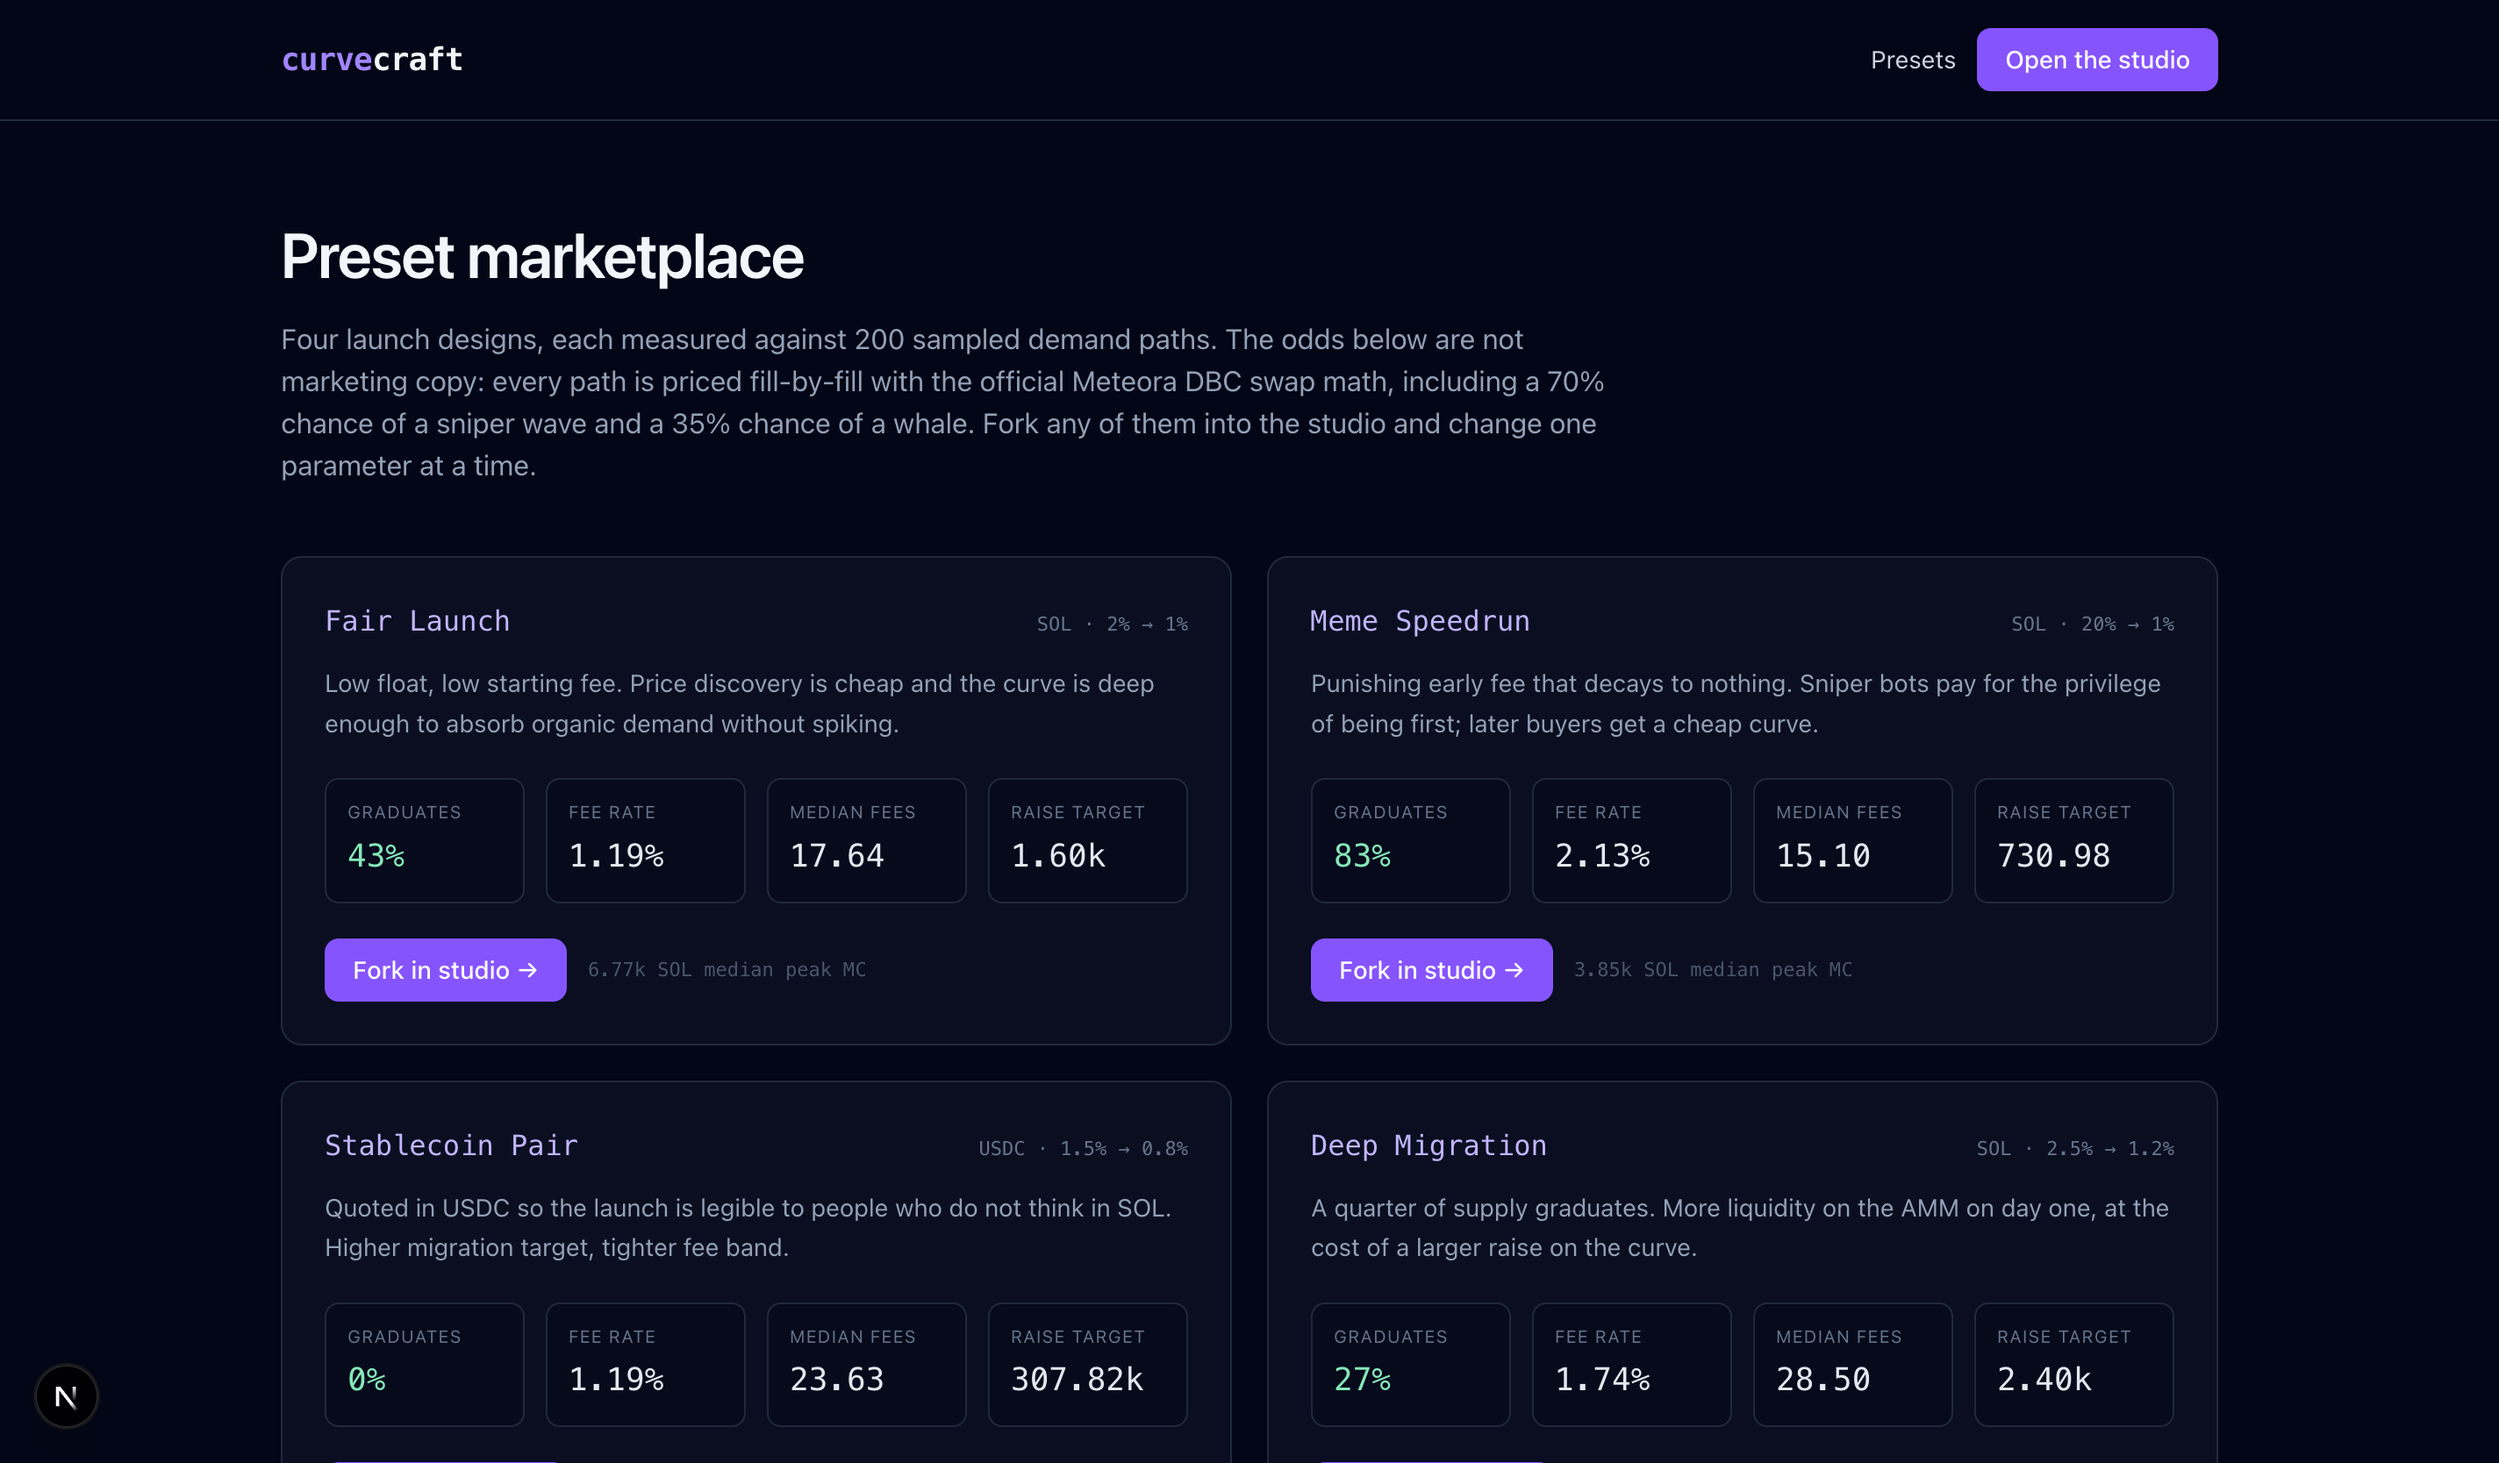
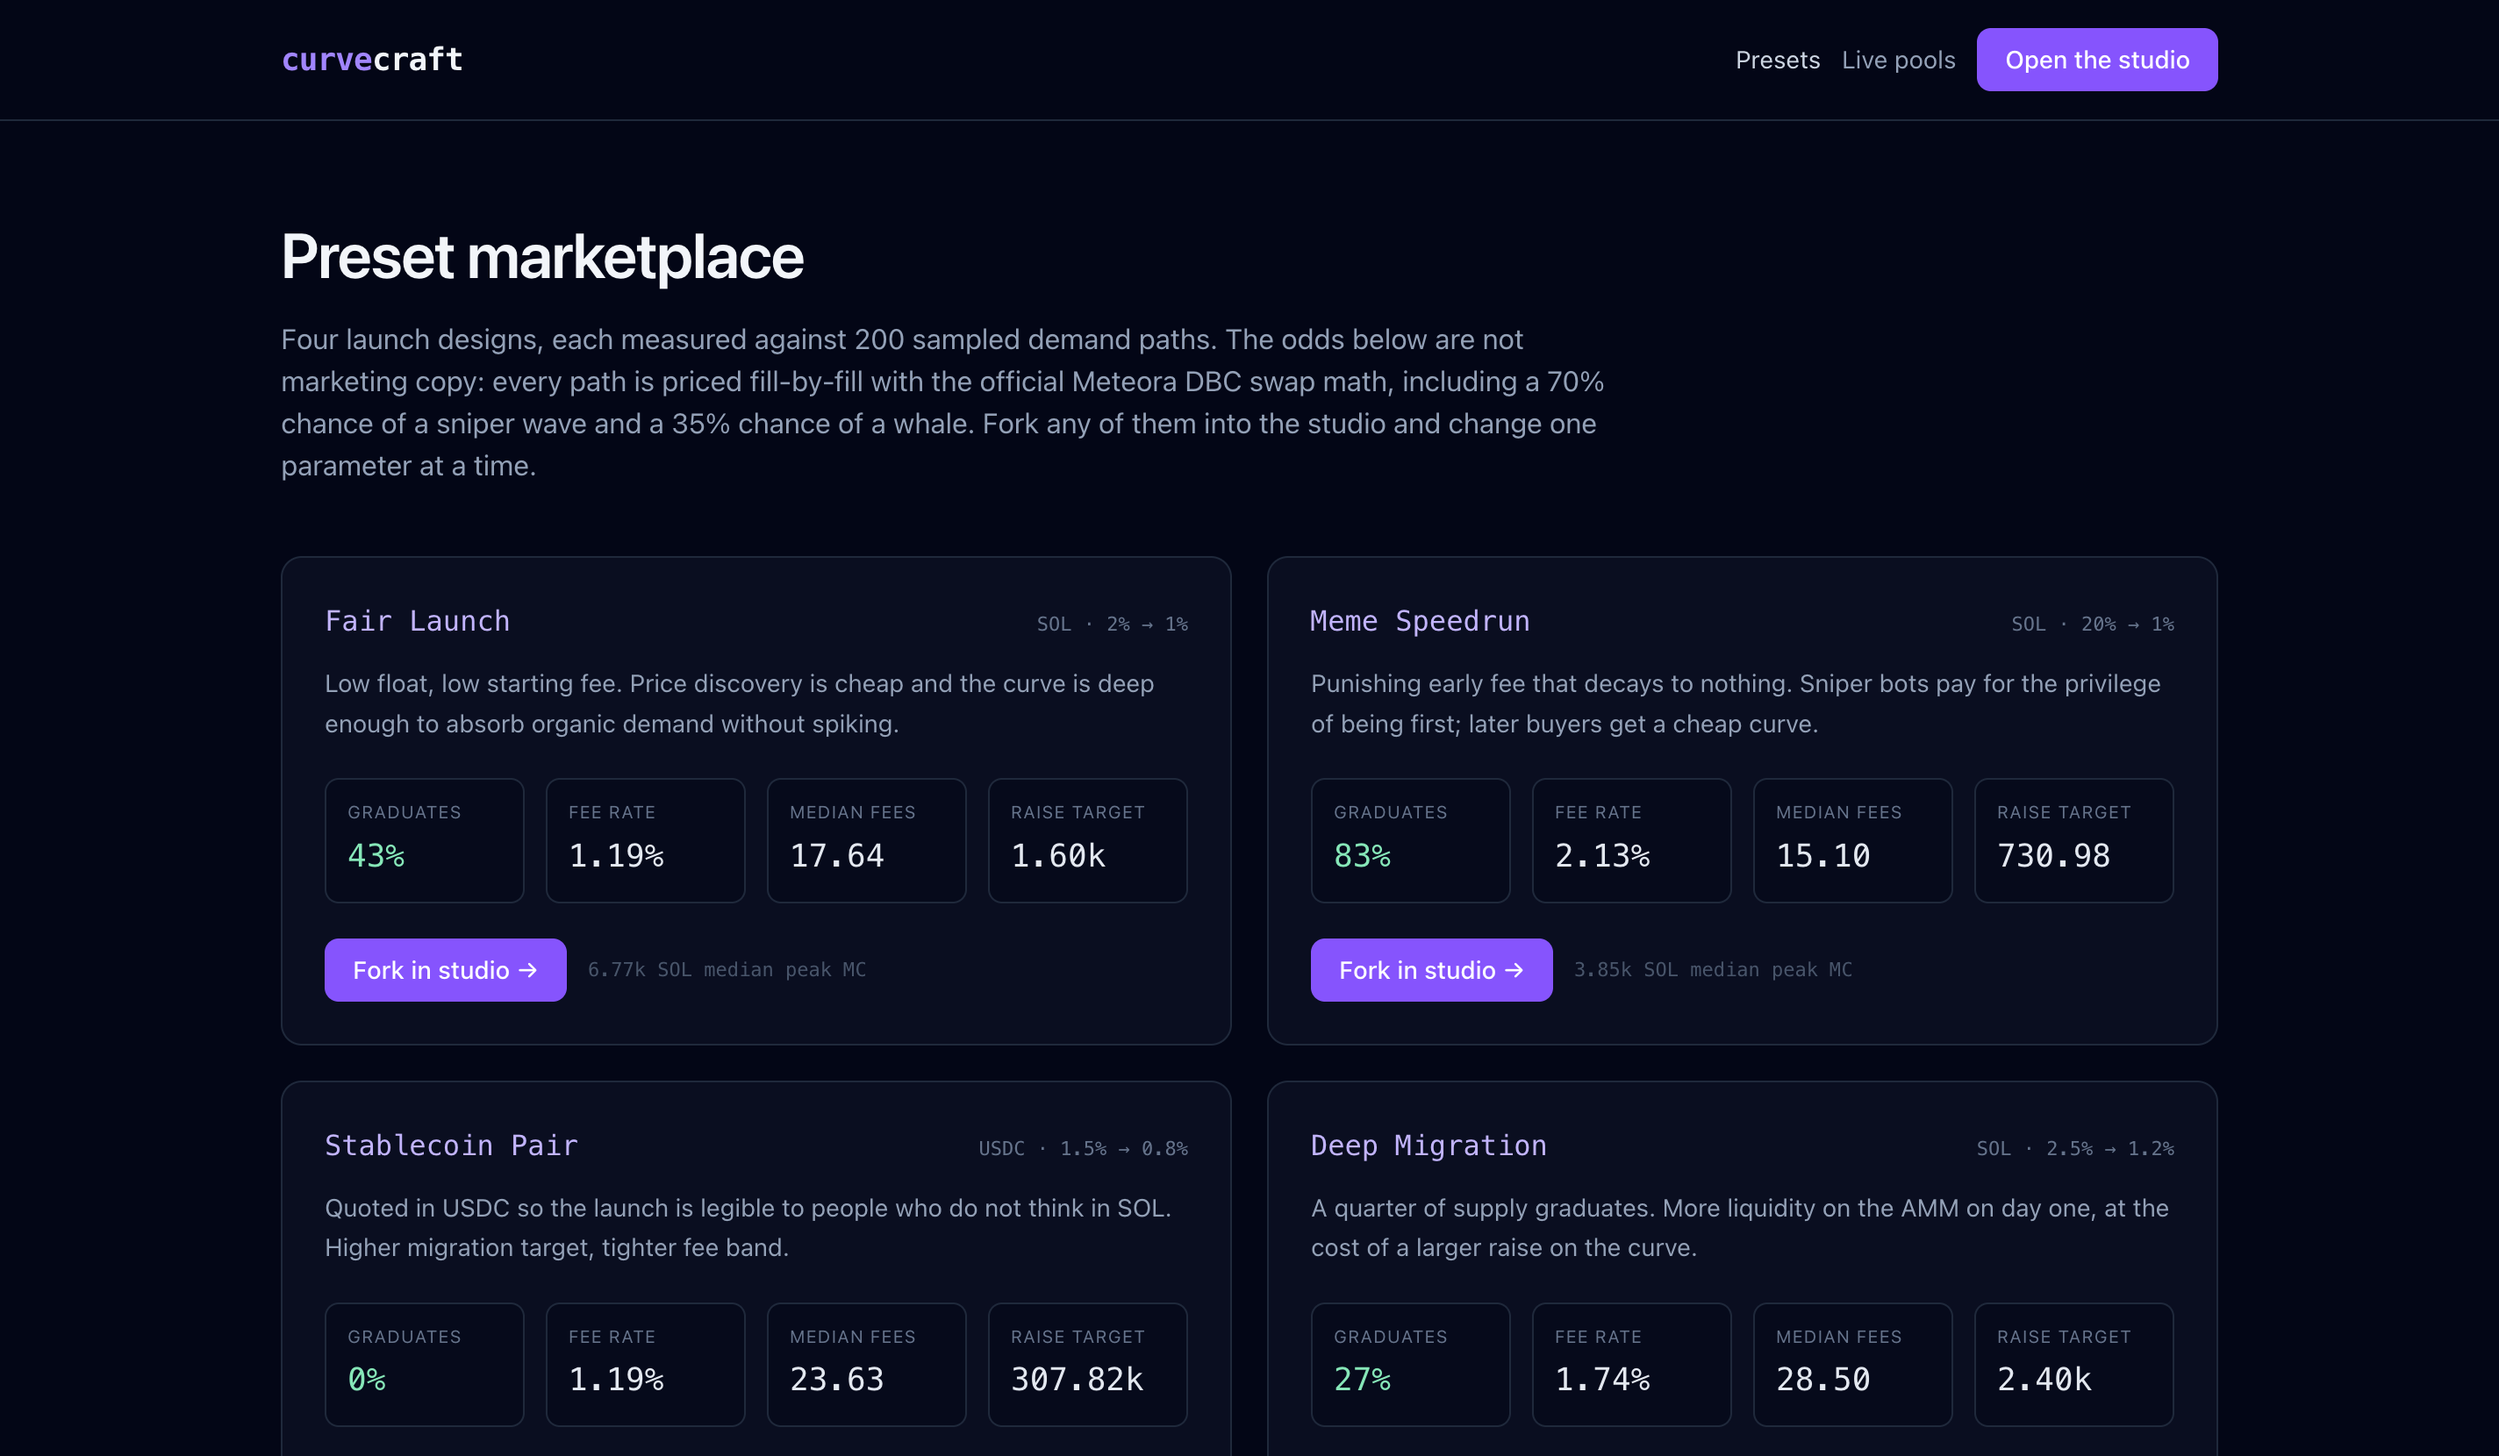
fix: exogenous demand model — graduation odds now discriminate between designs

diff --git a/src/core/montecarlo.ts b/src/core/montecarlo.ts
@@ -102,6 +102,25 @@ function percentile(sorted: number[], p: number): number {
   return sorted[index];
 }
 
+/**
+ * A demand assumption for a launch, by what it is priced in.
+ *
+ * These are starting points a founder is expected to argue with, not forecasts:
+ * a SOL-quoted community token seeing roughly 1,300 SOL of demand, a
+ * stablecoin-quoted launch seeing roughly 500k, and anything else scaled off its
+ * own raise target so the odds are at least in a sane range.
+ */
+export function demandProfileFor(quoteAsset: string, raiseTarget: number): DemandModel {
+  const base = { ...DEFAULT_DEMAND_MODEL };
+  if (quoteAsset === 'USDC') {
+    return { ...base, buyersMean: 180, buyMean: 2_800 };
+  }
+  if (quoteAsset === 'SOL') {
+    return base;
+  }
+  return { ...base, buyMean: (raiseTarget * 1.2) / Math.max(1, base.buyersMean) };
+}
+
 export const DEFAULT_DEMAND_MODEL: DemandModel = {
   buyersMean: 320,
   buyersSigma: 0.6,
@@ -184,6 +203,13 @@ export function monteCarlo(
   const runs = Math.max(1, Math.min(options.runs ?? 200, 2_000));
   const seed = options.seed ?? 42;
   const model: DemandModel = { ...DEFAULT_DEMAND_MODEL, ...options.model };
+
+  // Demand is exogenous: a launch does not attract more buyers because it set a
+  // higher target. So the *caller* supplies the demand assumption (see
+  // `demandProfileFor`), and the raise target only decides whether that demand is
+  // enough. Scaling demand to the target instead would make every design graduate
+  // with the same probability and the metric would say nothing.
+  void raiseTarget;
   const rand = mulberry32(seed);
 
   const fees: number[] = [];

diff --git a/src/app/presets/page.tsx b/src/app/presets/page.tsx
@@ -65,10 +65,12 @@ export default function PresetsPage() {
       <main className="mx-auto max-w-6xl px-6 py-14">
         <h1 className="text-3xl font-semibold tracking-tight sm:text-4xl">Preset marketplace</h1>
         <p className="mt-4 max-w-3xl text-slate-400">
-          Four launch designs, each measured against 200 sampled demand paths. The odds below are not
-          marketing copy: every path is priced fill-by-fill with the official Meteora DBC swap math,
-          including a 70% chance of a sniper wave and a 35% chance of a whale. Fork any of them into
-          the studio and change one parameter at a time.
+          Seven launch designs across asset classes — a community token, a meme speedrun, a
+          stablecoin pair, a deep-migration launch, a tokenized equity pair, an RWA yield pair and an
+          AI agent token. Each is measured against 200 sampled demand paths, sized to its own raise
+          target. The odds below are not marketing copy: every path is priced fill-by-fill with the
+          official Meteora DBC swap math, including a 70% chance of a sniper wave and a 35% chance of
+          a whale. Fork any of them into the studio and change one parameter at a time.
         </p>
 
         <div className="mt-10 grid gap-5 lg:grid-cols-2">

diff --git a/src/core/analysis.ts b/src/core/analysis.ts
@@ -8,7 +8,12 @@
  */
 import { deriveSpec, toConfigParams, toCurvePoints } from './build';
 import { lintSpec, type LintResult } from './lint';
-import { monteCarlo, type DemandModel, type MonteCarloResult } from './montecarlo';
+import {
+  demandProfileFor,
+  monteCarlo,
+  type DemandModel,
+  type MonteCarloResult,
+} from './montecarlo';
 import { scaledScenarios } from './scenarios';
 import { simulate } from './simulate';
 import type { CurvePointView, LaunchSpec, Scenario, SimulationResult, SpecDerivedLike } from './types';
@@ -75,6 +80,9 @@ export function analyzeMonteCarlo(
   const derived = deriveSpec(spec, toConfigParams(spec));
   return {
     derived,
-    result: monteCarlo(spec, derived.migrationQuoteThreshold, options),
+    result: monteCarlo(spec, derived.migrationQuoteThreshold, {
+      ...options,
+      model: options.model ?? demandProfileFor(spec.quoteAsset, derived.migrationQuoteThreshold),
+    }),
   };
 }

diff --git a/src/app/page.tsx b/src/app/page.tsx
@@ -113,7 +113,7 @@ export default function Home() {
                 </p>
               </div>
               <div>
-                <div className="font-mono text-3xl text-violet-300">43%</div>
+                <div className="font-mono text-3xl text-violet-300">40%</div>
                 <p className="mt-2 text-sm text-slate-400">
                   graduation probability for the default preset across 200 sampled demand paths —
                   the number a founder actually needs before deploying.

diff --git a/docs/demo-script.md b/docs/demo-script.md
@@ -80,10 +80,10 @@ then the percentiles, then the histogram.
 > buy size are lognormal, there's a 70% chance of a sniper wave and a 35% chance of a whale, and a
 > coin flip on whether the whale dumps.
 >
-> Two hundred paths, each one priced fill-by-fill with the SDK. Result: a **43% graduation
+> Two hundred paths, each one priced fill-by-fill with the SDK. Result: a **40% graduation
 > probability**. Median fees of 17.6 SOL — but the 10th percentile is 6.3 and the 90th is 21.4.
 >
-> The number a founder actually needs is not the base case. It's that 57% of the time, this curve
+> The number a founder actually needs is not the base case. It's that 60% of the time, this curve
 > does not graduate."
 
 **Screen:** click `500 runs` to show it re-samples.
@@ -118,7 +118,7 @@ then the percentiles, then the histogram.
 - Record at 1080p or higher; keep the terminal off-screen.
 - If a number differs from this script by a rounding step, say the number on screen — never the
   script's. The app is deterministic for a given preset and seed, but presets get tuned.
-- The 21.7% sniper premium and 43% graduation probability come from the Meme Speedrun and Fair
+- The 21.7% sniper premium and 40% graduation probability come from the Meme Speedrun and Fair
   Launch presets respectively; if you change presets mid-recording, re-read the panel.
 - Total narration is ~430 words. At a normal pace that lands just under three minutes; if you run
   long, cut the whale scenario (0:55–1:40) rather than the Monte-Carlo section.

diff --git a/docs/findings.md b/docs/findings.md
@@ -69,9 +69,15 @@ whether that whale dumps. Then we run the launch against each path with the SDK'
 
 For the Fair Launch preset (1,600 SOL raise target), 200 paths give:
 
-- **43% graduation probability**
-- Median fees: 17.6 SOL — but the 10th percentile is 6.3 SOL and the 90th is 21.4 SOL
-- Median peak market cap 6.8k SOL against an 8k graduation target
+- **40% graduation probability**
+- Median fees: 16.5 SOL — but the 10th percentile is 6.3 SOL and the 90th is 21.4 SOL
+- Median peak market cap 6.5k SOL against an 8k graduation target
+
+The demand model is deliberately exogenous: a SOL-quoted community launch is assumed to attract
+roughly 1,300 SOL of demand no matter what its raise target says, because a launch does not get
+more buyers by asking for more. The design decides whether that is enough — which is why the same
+250 paths give the Meme Speedrun preset an 82% graduation chance at a 731 SOL target and Deep
+Migration a 27% chance at 2,400 SOL.
 
 The headline number a founder needs is not "peak market cap under my base case". It is "**57% of
 the time this curve does not graduate**".

diff --git a/docs/pitch.md b/docs/pitch.md
@@ -75,11 +75,11 @@ Founders under-ask because they assume linearity.
 Sampling 200 demand paths (lognormal buyers and sizes, 70% sniper probability, 35% whale
 probability) against the Fair Launch preset:
 
-- **43% graduation probability** *(measured)*
+- **40% graduation probability** *(measured)*
 - Fees: 6.3 SOL at p10, 17.6 at p50, 21.4 at p90
 - Median peak market cap 6.8k SOL against an 8k target
 
-The honest headline is "57% of the time this does not graduate", not "peak market cap 6.8k".
+The honest headline is "60% of the time this does not graduate", not "peak market cap 6.8k".
 
 *Visual:* histogram with the graduation target marked.
 
@@ -124,5 +124,5 @@ most? Those become the next presets.
 | Sniper premium +21.7% | `npm run sim -- --all`, Meme Speedrun × Sniper wave |
 | Organic fee 2.481% vs sniper 3.019% | same run |
 | Raise 666.7 → 5,197.5 SOL for 2k → 64k MC | `npx tsx scripts/curve-table.ts` |
-| 43% graduation probability, 200 paths | `/presets` (seed 7) |
+| 40% graduation probability, 200 paths | `/presets` (seed 7) |
 | 15 invariants | `npm test` |
